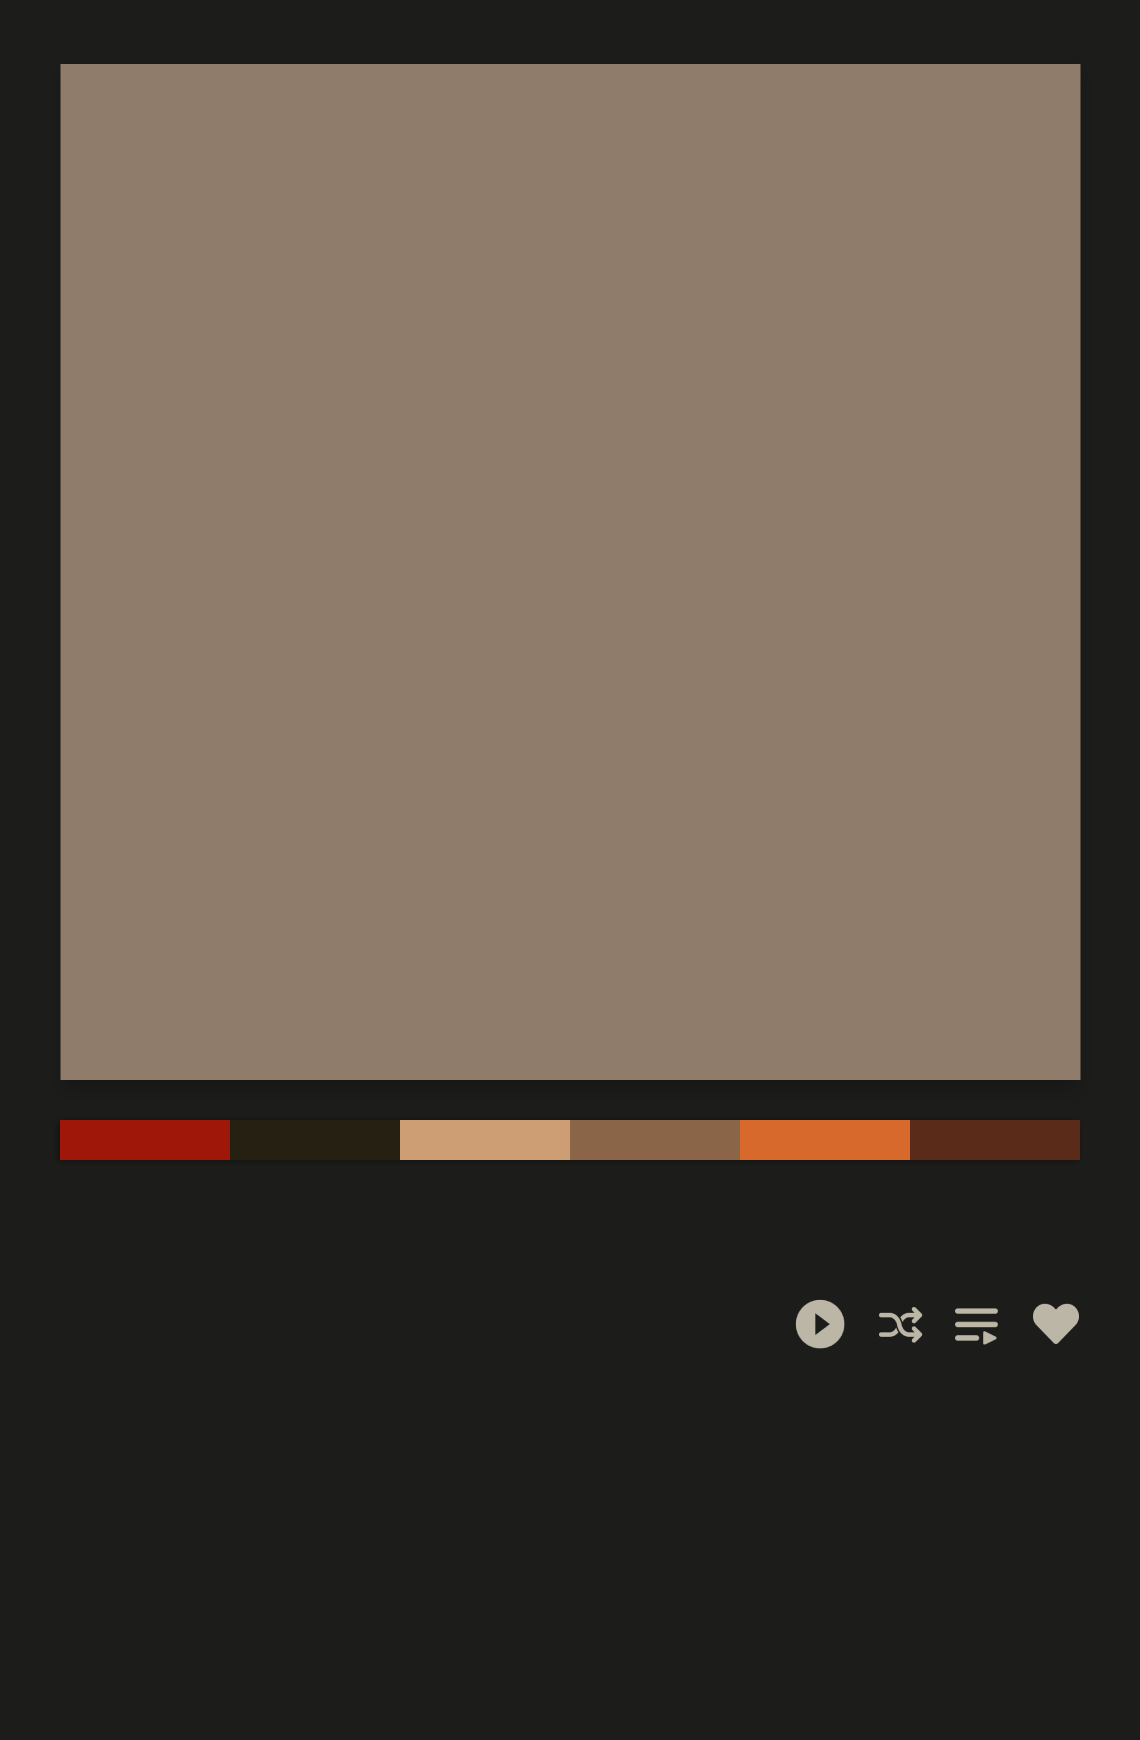
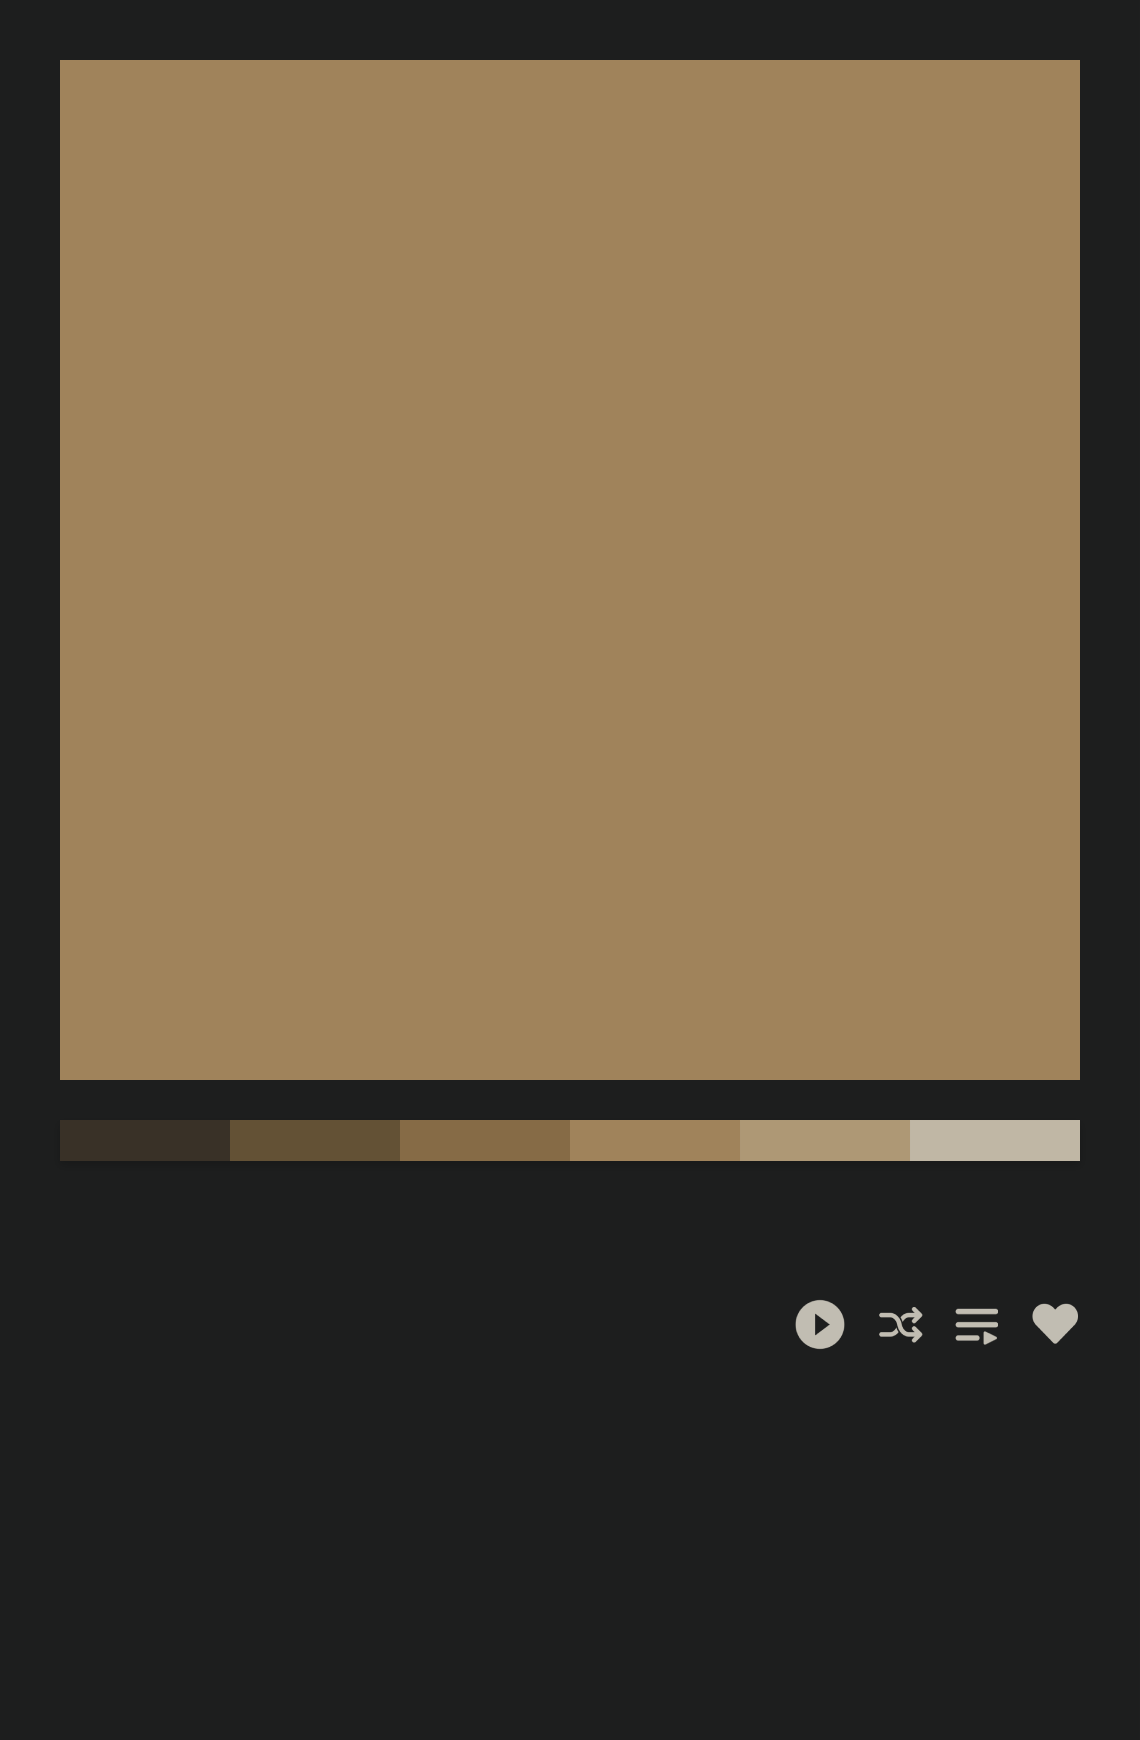
🎀 minor fixes

Changed region(s): [[0.0307, 0.6207, 0.9518, 0.6828]]

diff --git a/BeatPrints/consts.py b/BeatPrints/consts.py
@@ -33,7 +33,7 @@ C_PALETTE = (60, 1120)
 C_ACCENT = (0, 1720, 1140, 1740)
 C_SPOTIFY_CODE = (45, 1610)
 
-CL_DARK_MODE = (188, 182, 167)
+CL_DARK_MODE = (193, 189, 178)
 CL_LIGHT_MODE = (50, 47, 48)
 
 CL_WHITE = (255, 255, 255, 255)
